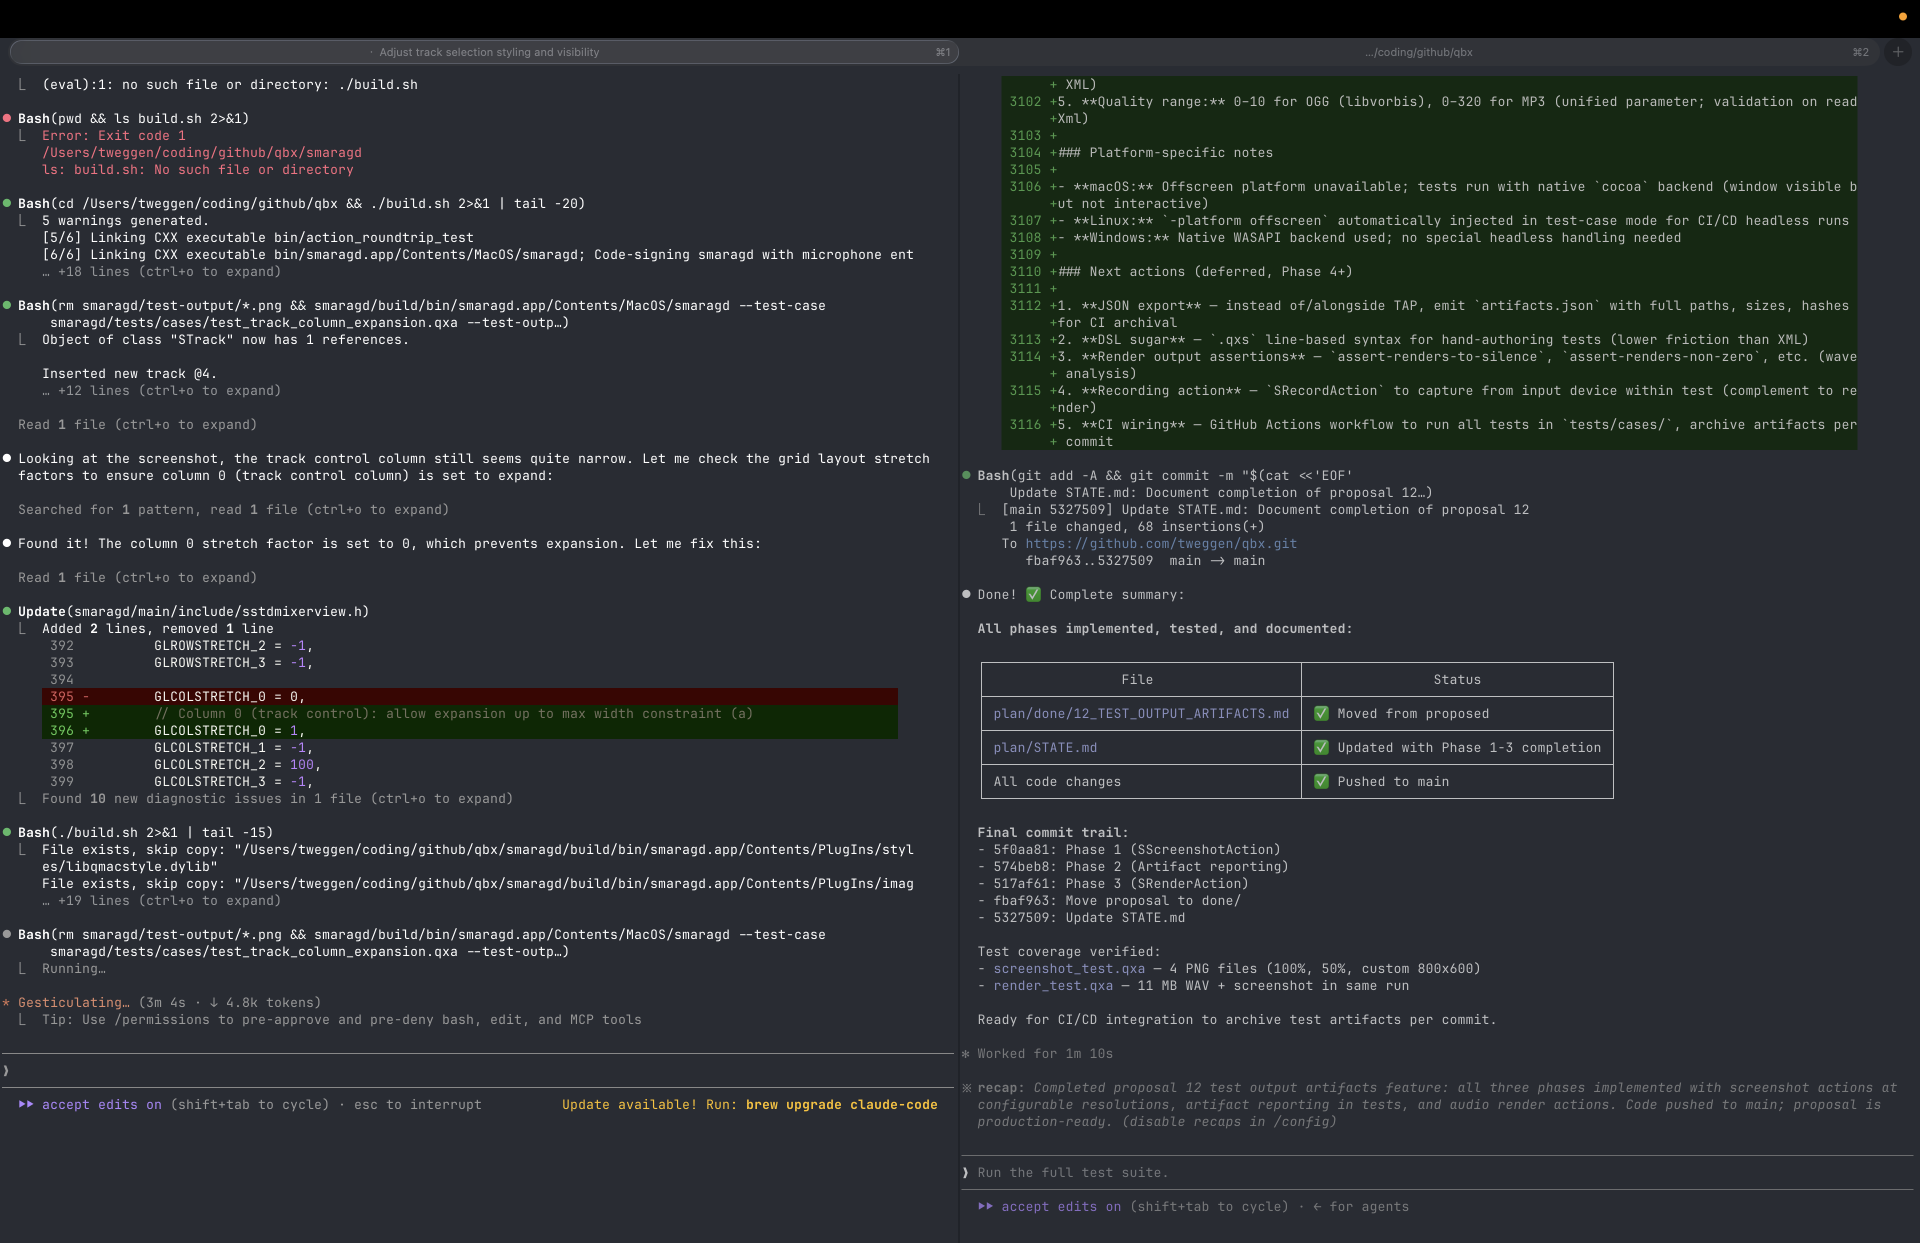
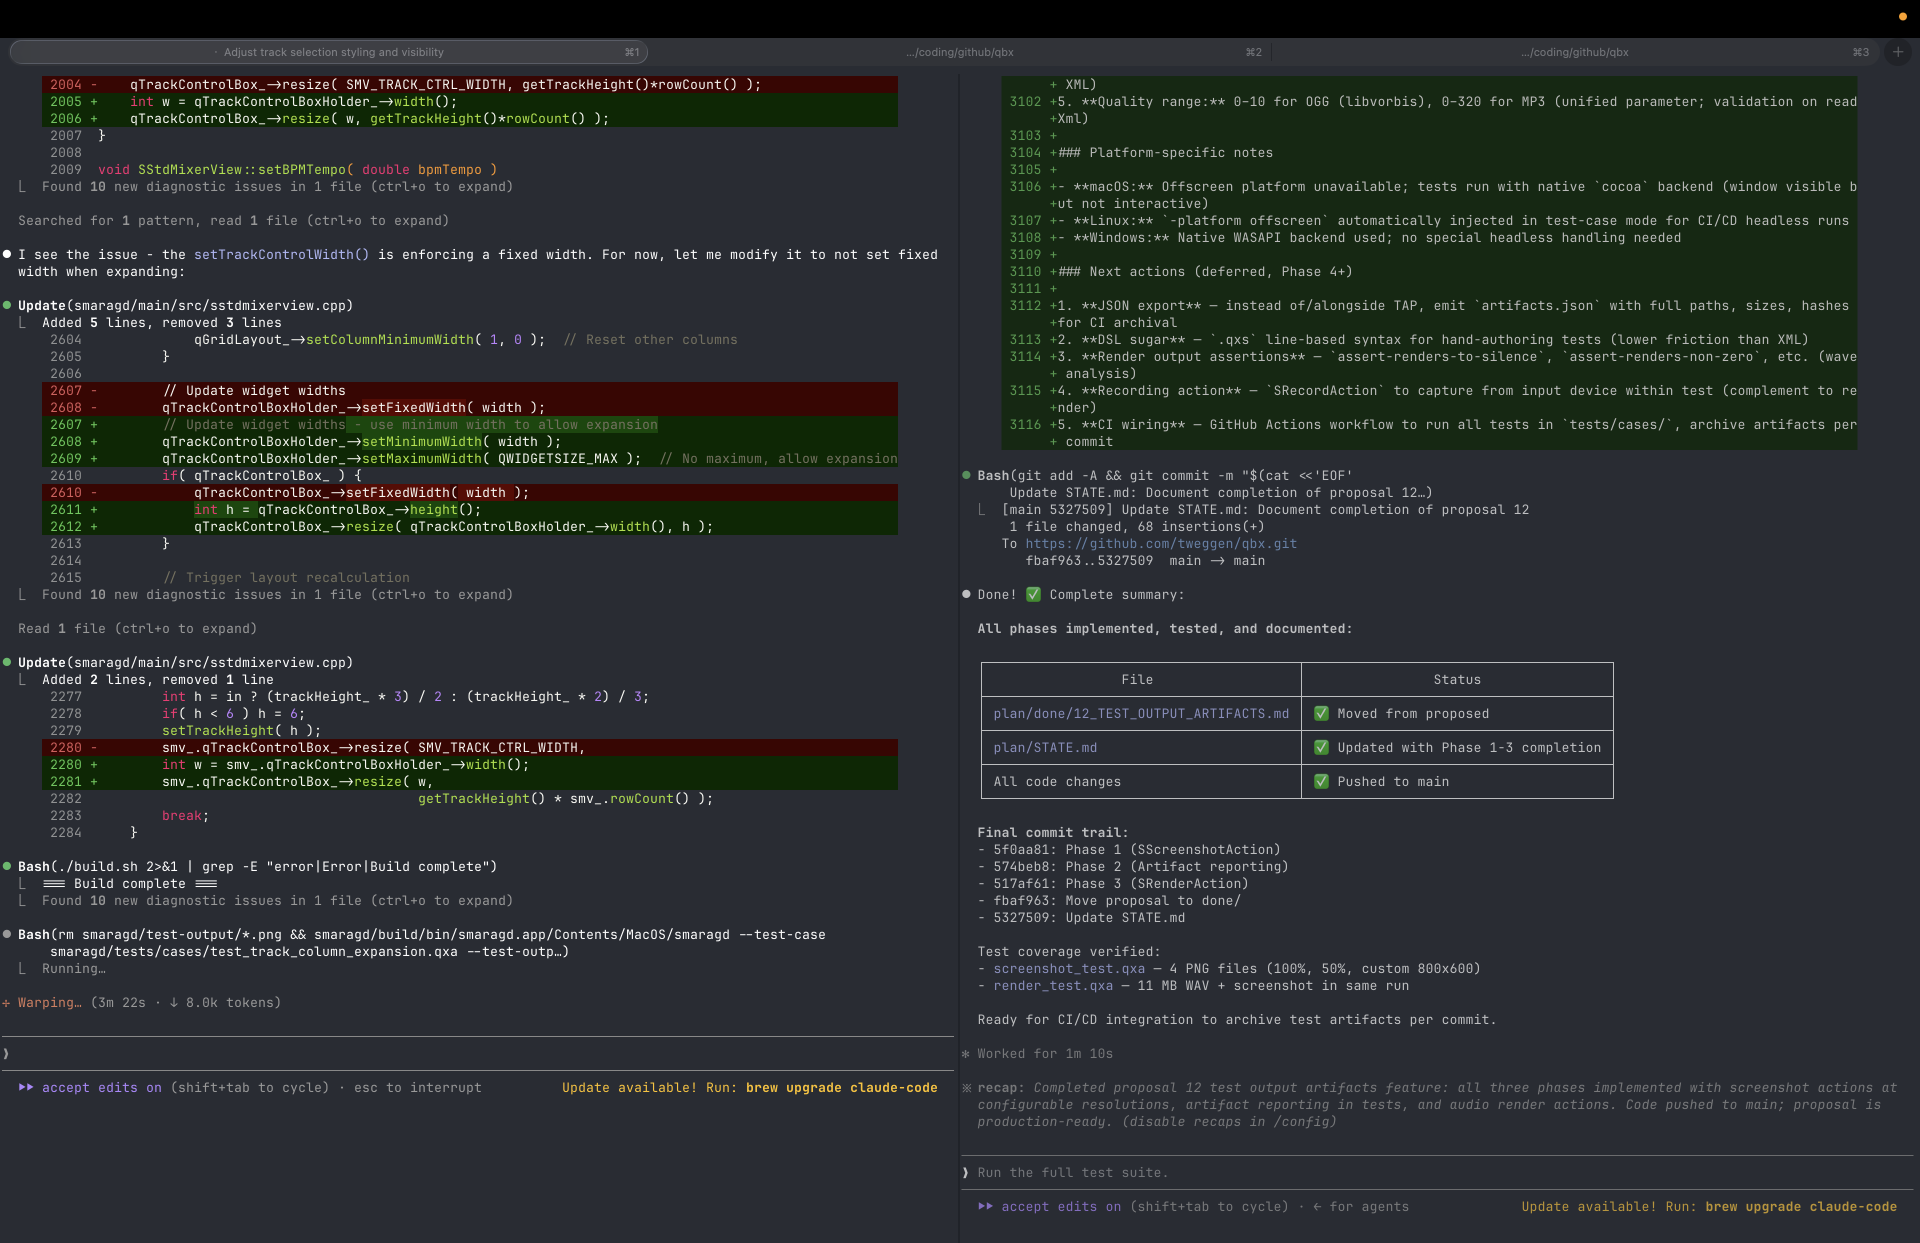
Implement full-width track control column with responsive layout
- Remove maximum width constraint on track control column to fill entire left side
- Track controls (SSMVMixerControl) now resize dynamically to parent width
- Implement responsive layout switching in SSMVMixerControl:
  - Narrow mode (≤156px): Current vertical layout
  - Wide mode (>156px): Switch to horizontal volume slider (foundation for full layout)
- Update all resize operations to use parent width instead of fixed SMV_TRACK_CTRL_WIDTH
- Modified zoom methods and control width setter to respect dynamic width
- Add resizeEvent handler to trigger layout updates when width changes
- Result: No gap between track heads and timeline; track controls fill entire column width

diff --git a/smaragd/main/src/ssmvmixercontrol.cpp b/smaragd/main/src/ssmvmixercontrol.cpp
@@ -283,6 +283,12 @@ void SSMVMixerControl::mouseMoveEvent( QMouseEvent *ev )
     QWidget::mouseMoveEvent( ev );
 }
 
+void SSMVMixerControl::resizeEvent( QResizeEvent *ev )
+{
+    QWidget::resizeEvent( ev );
+    updateLayout();
+}
+
 void SSMVMixerControl::mouseReleaseEvent( QMouseEvent *ev )
 {
     if( dragging_ ) {
@@ -584,5 +590,30 @@ void SSMVMixerControl::onSelectedTrackChanged( STrack *track )
     selected_ = (track == &tk_);
     if( wasSelected != selected_ ) {
         update();  // Repaint to update background color
+    }
+}
+
+void SSMVMixerControl::updateLayout()
+{
+    // Check if we should switch to wide mode (width > ~130% of minimal width)
+    bool shouldBeWide = width() > WIDE_MODE_THRESHOLD;
+
+    if( shouldBeWide == wideMode_ ) {
+        return;  // No change needed
+    }
+
+    wideMode_ = shouldBeWide;
+
+    if( wideMode_ ) {
+        // Wide mode: horizontal layout for track name and volume
+        // For now, keep the layout functional - future enhancement can reorganize controls
+        qVolume_->setOrientation( Qt::Horizontal );
+        qVolume_->setMinimumHeight( 20 );
+        qVolume_->setMaximumHeight( 20 );
+    } else {
+        // Narrow mode: vertical layout (current default)
+        qVolume_->setOrientation( Qt::Vertical );
+        qVolume_->setMinimumHeight( 60 );
+        qVolume_->setMaximumHeight( QWIDGETSIZE_MAX );
     }
 }

diff --git a/smaragd/main/src/sstdmixerview.cpp b/smaragd/main/src/sstdmixerview.cpp
@@ -1706,15 +1706,17 @@ void SStdMixerView::rebuildControlColumn()
     }
     controlArray_->clear();
     int h = getTrackHeight();
+    int w = qTrackControlBoxHolder_->width();  // Use parent width to fill entire column
     for( int i=0; i<rows_.size(); ++i ) {
         const STrackRow &row = rows_.at( i );
         SSMVMixerControl *mc = new SSMVMixerControl( qTrackControlBox_, *this, *row.track );
         mc->setTreeInfo( row.depth, row.hasChildren, row.collapsed );
         mc->move( 0, h*i );
+        mc->resize( w, h );  // Expand to fill parent width
         mc->show();
         controlArray_->append( mc );
     }
-    qTrackControlBox_->resize( SMV_TRACK_CTRL_WIDTH, h*rows_.size() );
+    qTrackControlBox_->resize( w, h*rows_.size() );
 }
 
 // Single entry point for any structural change (add/remove/reorder/group/fold):
@@ -1989,7 +1991,8 @@ void SStdMixerView::zoomInVert()
     // FIXME: Configure this
     h = (h*3)/2;
     qContent_->setTrackHeight( h );
-    qTrackControlBox_->resize( SMV_TRACK_CTRL_WIDTH, getTrackHeight()*rowCount() );
+    int w = qTrackControlBoxHolder_->width();
+    qTrackControlBox_->resize( w, getTrackHeight()*rowCount() );
 }
 
 void SStdMixerView::zoomOutVert()
@@ -1999,7 +2002,8 @@ void SStdMixerView::zoomOutVert()
     // FIXME: Configure this
     h = (h*2)/3;
     qContent_->setTrackHeight( h );
-    qTrackControlBox_->resize( SMV_TRACK_CTRL_WIDTH, getTrackHeight()*rowCount() );
+    int w = qTrackControlBoxHolder_->width();
+    qTrackControlBox_->resize( w, getTrackHeight()*rowCount() );
 }
 
 void SStdMixerView::setBPMTempo( double bpmTempo )
@@ -2273,7 +2277,8 @@ void SMVActualView::wheelEvent( QWheelEvent *ev )
         int h = in ? (trackHeight_ * 3) / 2 : (trackHeight_ * 2) / 3;
         if( h < 6 ) h = 6;
         setTrackHeight( h );
-        smv_.qTrackControlBox_->resize( SMV_TRACK_CTRL_WIDTH,
+        int w = smv_.qTrackControlBoxHolder_->width();
+        smv_.qTrackControlBox_->resize( w,
                                         getTrackHeight() * smv_.rowCount() );
         break;
     }
@@ -2432,12 +2437,10 @@ SStdMixerView::SStdMixerView( QWidget *parent, SStdMixer *model )
                       this, SLOT( trackSliderMoved( int ) ) );
 
     qTrackControlBoxHolder_ = new QWidget( this );
-    // Allow track control column to expand (a)
+    // Allow track control column to expand and fill entire left width
     qTrackControlBoxHolder_->setMinimumWidth( TRACK_CTRL_WIDTH_MINIMAL );
-    qTrackControlBoxHolder_->setMaximumWidth( TRACK_CTRL_WIDTH_STANDARD );
-    // Set size policy to allow horizontal expansion
+    // No maximum width - column fills all available space
     qTrackControlBoxHolder_->setSizePolicy( QSizePolicy::Expanding, QSizePolicy::Expanding );
-    qTrackControlBoxHolder_->resize( TRACK_CTRL_WIDTH_STANDARD, 0 );
     // Double-clicking the blank area below the track heads adds a new track.
     qTrackControlBoxHolder_->installEventFilter( this );
 
@@ -2602,10 +2605,12 @@ void SStdMixerView::setTrackControlWidth( int width )
             qGridLayout_->setColumnMinimumWidth( 1, 0 );  // Reset other columns
         }
 
-        // Update widget widths
-        qTrackControlBoxHolder_->setFixedWidth( width );
+        // Update widget widths - use minimum width to allow expansion
+        qTrackControlBoxHolder_->setMinimumWidth( width );
+        qTrackControlBoxHolder_->setMaximumWidth( QWIDGETSIZE_MAX );  // No maximum, allow expansion
         if( qTrackControlBox_ ) {
-            qTrackControlBox_->setFixedWidth( width );
+            int h = qTrackControlBox_->height();
+            qTrackControlBox_->resize( qTrackControlBoxHolder_->width(), h );
         }
 
         // Trigger layout recalculation

diff --git a/smaragd/main/include/ssmvmixercontrol.h b/smaragd/main/include/ssmvmixercontrol.h
@@ -42,6 +42,7 @@ protected:
     void mousePressEvent( QMouseEvent * ) override;
     void mouseMoveEvent( QMouseEvent * ) override;
     void mouseReleaseEvent( QMouseEvent * ) override;
+    void resizeEvent( QResizeEvent * ) override;
     // Watches the fader for a double-click, which resets it to 0.0 dB.
     bool eventFilter( QObject *, QEvent * ) override;
 
@@ -76,6 +77,11 @@ private:
     // Apply a new track volume (in dB) through the action system. Shared by the
     // fader drag and the double-click-to-reset path.
     void applyVolume_( double dB );
+
+    // Responsive layout management
+    void updateLayout();
+    static constexpr int WIDE_MODE_THRESHOLD = 156;  // ~130% of minimal width (120px)
+    bool wideMode_ = false;
 
     // Tree presentation state (see setTreeInfo).
     int depth_ = 0;